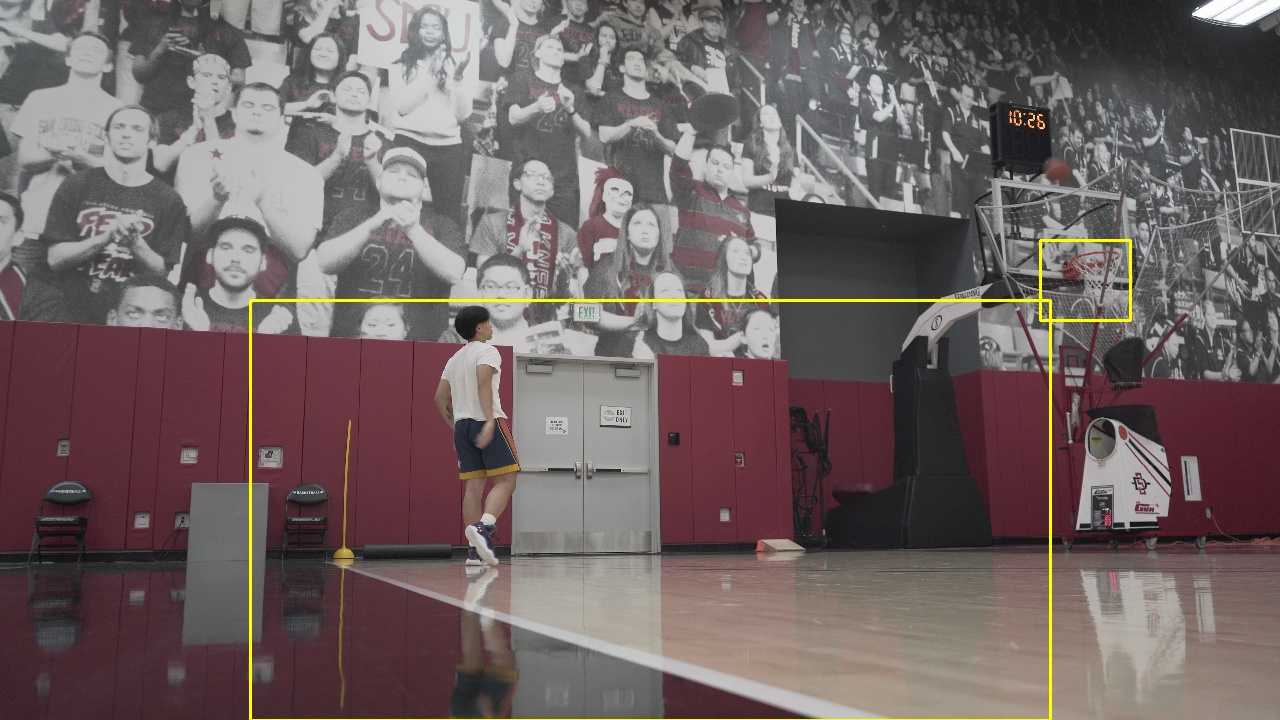
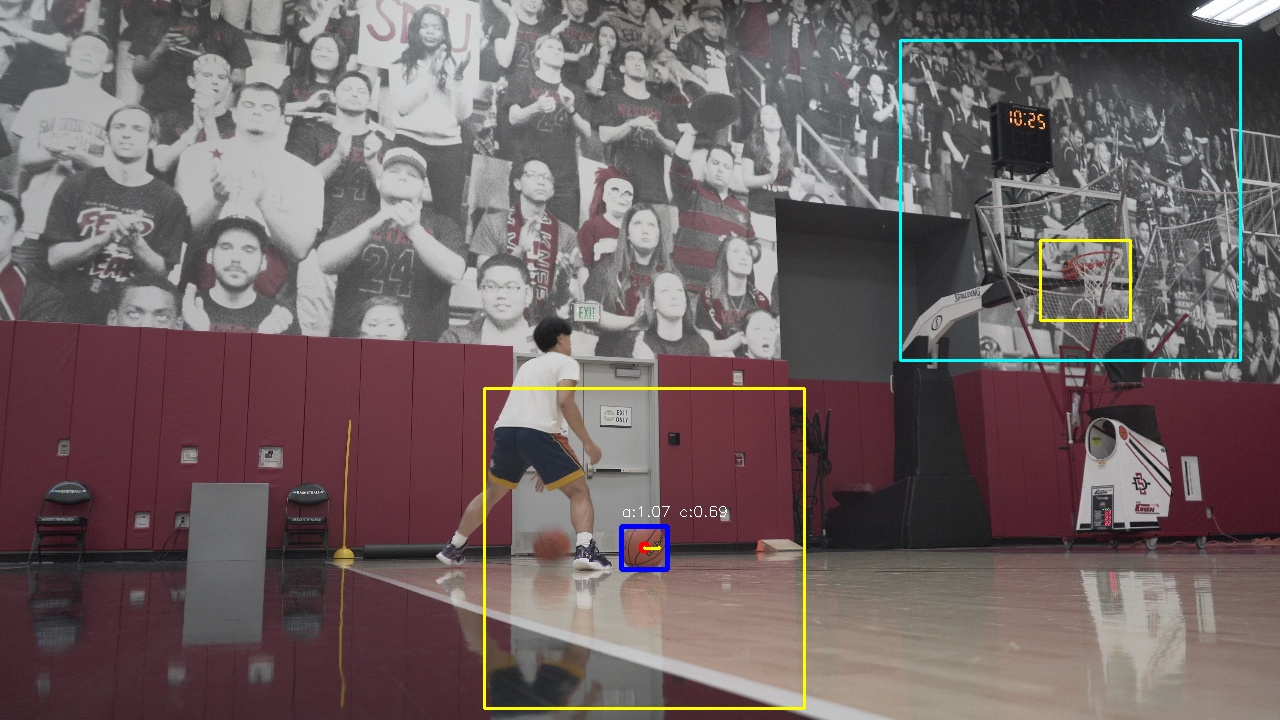
Draw the hoop zone

diff --git a/src/main.py b/src/main.py
@@ -96,6 +96,12 @@ def playVideoFrameFile():
     hoop_roi_x2 = 1130
     hoop_roi_y2 = 320
 
+    # Larger basket approach box -> give our track a larger valid late-flight area
+    approach_x1 = 900
+    approach_y1 = 40
+    approach_x2 = 1240
+    approach_y2 = 360
+
     # 4. Repeatedly read the next frame
     while True:
         ret, frame = cap.read()
@@ -254,14 +260,20 @@ def playVideoFrameFile():
                 if distance > MAX_JUMP_DISTANCE:
                     continue
 
-                # reject candidates that are too far from the hoop zone
-                if last_x > 900:
-                    # calculate the distance to the hoop
-                    distance_to_hoop = math.hypot(
-                        center_x - hoop_center_x, center_y - hoop_center_y)
-
-                    if distance_to_hoop > MAX_HOOP_DISTANCE:
+                # reject candidates that are too far from the hoop zone, update the flight to also take vertical position
+                if last_x > 900 and last_y < 260:
+                    inside_approach_zone = (
+                        approach_x1 <= center_x <= approach_x2 and approach_y1 <= center_y <= approach_y2
+                    )
+                    if not inside_approach_zone:
                         continue
+
+                    # calculate the distance to the hoop
+                    # distance_to_hoop = math.hypot(
+                    #     center_x - hoop_center_x, center_y - hoop_center_y)
+
+                    # if distance_to_hoop > MAX_HOOP_DISTANCE:
+                    #     continue
 
                 if best_score is None or distance < best_score:
                     best_score = distance
@@ -282,6 +294,11 @@ def playVideoFrameFile():
             cv.rectangle(debug_frame, (full_x, full_y), (full_x + w, full_y + h), (255, 0, 0), 4)
 
             cv.circle(debug_frame, (center_x, center_y), 6, (0, 0, 255), - 1)
+
+            # Draw the basket-approach zone
+            cv.rectangle(debug_frame, (approach_x1, approach_y1),
+                         (approach_x2, approach_y2), (255, 255, 0), 2)
+
             # Show aspect ratio and circularity
             label = f"a:{aspect_ratio:.2f} c:{circularity:.2f}"
             cv.putText(

diff --git a/LEARNING_LOG.md b/LEARNING_LOG.md
@@ -1064,3 +1064,23 @@ In OpenCV Python, a rectangular ROI is usually applied by slicing the image arra
 ```python
 roi = frame[y1:y2, x1:x2]
 ```
+
+# Lesson 57 — Late Flight Is Not the Same as Rim Contact
+
+A ball in late flight can still be far from the exact hoop center.
+
+Using a strict distance-to-hoop-center rule too early can reject the true ball.
+
+A better late-flight constraint is a broader basket-approach region that includes the space above and around the rim.
+
+This is more appropriate for tracking the descending arc before the ball actually reaches the hoop.
+
+# Lesson 58 — Use a Basket-Approach Zone Before Using a Tight Hoop Zone
+
+A good progression is:
+
+- broad static ROI for initialization
+- dynamic ROI around the tracked ball
+- hoop-union ROI near the basket
+- broad basket-approach zone for late-flight filtering
+- tight hoop zone later for rim interaction / make-miss logic
